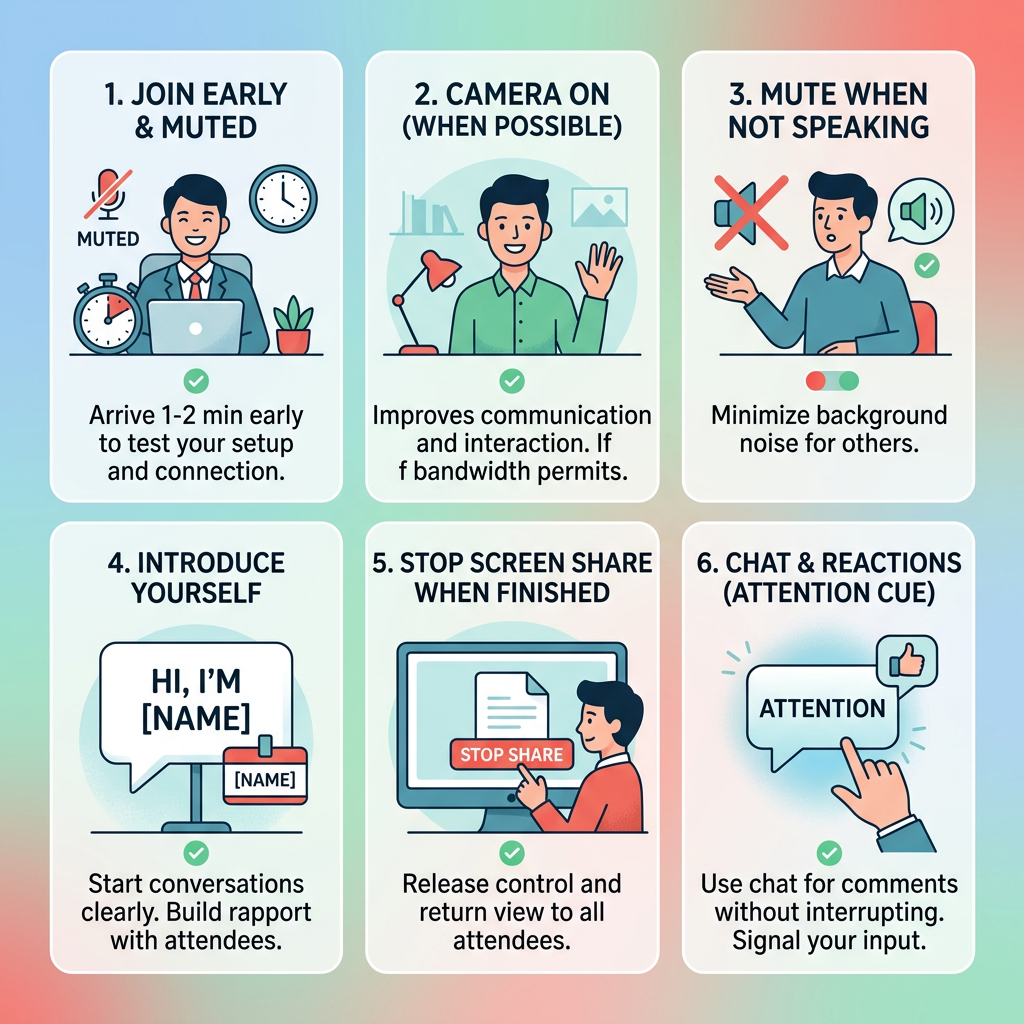
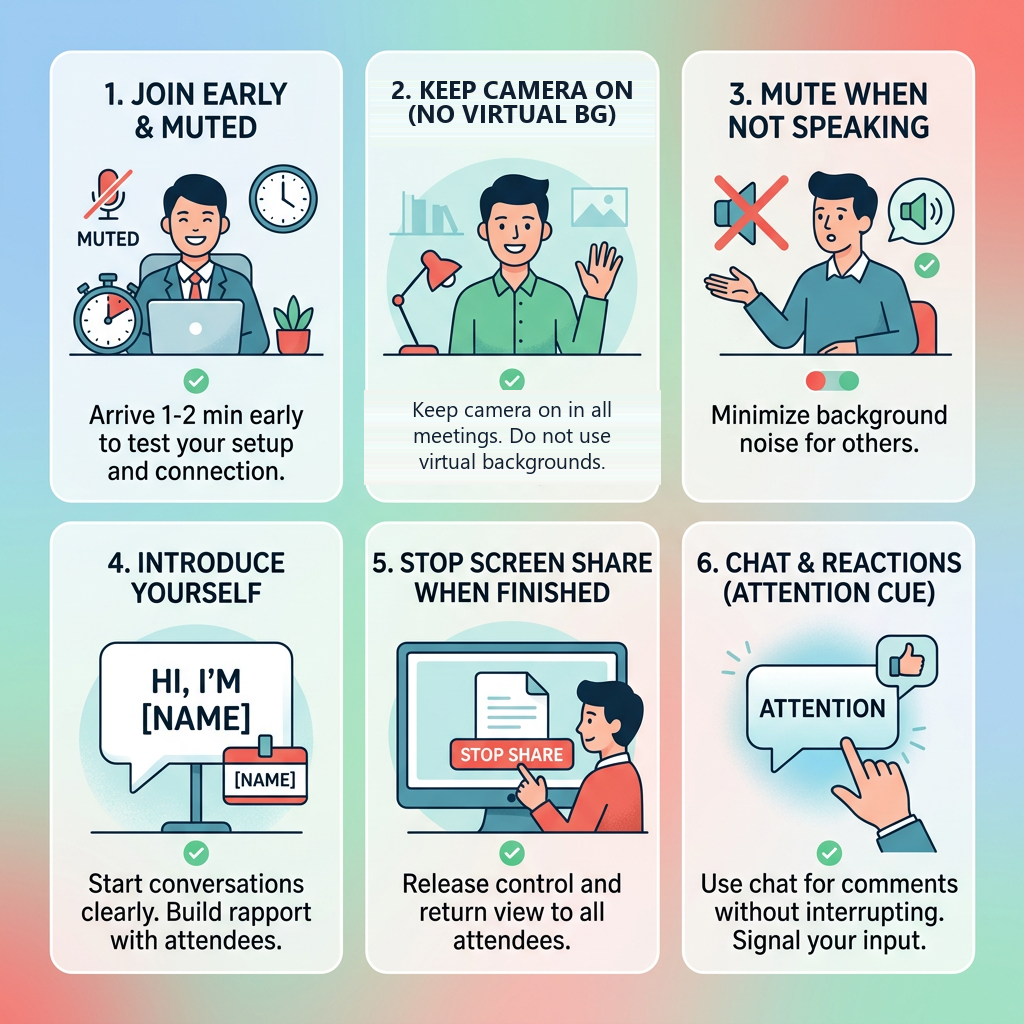
Updated WebEx Slides

Changed region(s): [[0.3438, 0.375, 0.625, 0.4688], [0.375, 0.0625, 0.625, 0.1562]]

diff --git a/courses/18-webex-tips-and-tricks/course.md b/courses/18-webex-tips-and-tricks/course.md
@@ -54,6 +54,11 @@
 
 - No prior Webex experience required
 
+<!-- below-columns -->
+
+> [!NOTE]
+> HCA Healthcare maintains multiple Webex sites. Employees must request Webex Meetings and Messaging access through HCA’s Access Central tool to receive the appropriate site access and permissions.
+
 ![Prerequisites](images/prerequisites.png)
 ---
 <!-- layout: navigation -->
@@ -77,7 +82,7 @@
 ---
 # Scheduling Smarter
 
-- Schedule directly from Webex, Outlook, or Google Calendar: pick whichever fits your workflow
+- Schedule directly from Webex or Outlook: pick whichever fits your workflow
 - Use meeting templates to standardize recurring formats (standups, 1:1s, all-hands)
 - Set a default meeting duration shorter than 60 or 30 minutes: most meetings expand to fill the time given
 - Enable the lobby/waiting room for anything with external guests
@@ -89,7 +94,7 @@
 
 - One-click join from your calendar invite: avoid hunting for meeting numbers
 - Test audio and video before an important meeting, not during it
-- Join from the desktop or mobile app for full features; the web app is a solid fallback
+- Join meetings directly from the Webex desktop or mobile app for the full experience; use the browser as a fallback when needed.
 - Preview your camera and background before joining, not after
 
 
@@ -103,20 +108,24 @@
 # In-Meeting Controls Worth Knowing
 
 - Reactions and raise hand keep large meetings orderly without interrupting the speaker
-- Virtual backgrounds and background noise removal reduce distractions for everyone
+- Employees are expected to keep their cameras on during all Webex meetings and should not use virtual backgrounds
+- Use background noise removal to minimize audio distractions
 - Screen share with “share sound” when presenting video or audio content
 - Lock the meeting once everyone expected to attend has joined, for sensitive discussions
+- If you experience recurring Webex issues, report the problem and create a Service Desk ticket with details of the issue
 ---
 <!-- layout: 2-column -->
 # Recordings and Transcripts
 
 ### Recordings
-- Cloud recordings are shareable and searchable
-- Set recording to start automatically for recurring meetings that need one
+- Set recording to start automatically for scheduled and recurring meetings that need one
+- Automatic sharing of Webex recordings and transcripts is not enabled
+- Meeting hosts must review all recordings and read all transcripts for accuracy before distributing them
 
-### Transcripts
-- Auto-generated transcripts save note-taking time
+### AI-generated Transcripts
+- Save note-taking time
 - Searchable after the meeting: jump straight to the part you need
+- May contain mistakes and must be checked carefully
 ---
 # Breakout Sessions
 
@@ -196,7 +205,7 @@
 # Meeting Etiquette Basics
 
 - Join a minute early, muted by default
-- Use video when you can—it builds engagement
+- Employees are expected to keep their cameras on during Webex meetings and should not use virtual backgrounds
 - Mute when not speaking, especially in larger groups
 - Say who you are before speaking in large or new groups
 - Stop sharing your screen when you’re done, not mid-transition
@@ -233,7 +242,9 @@
 - No video? Confirm Webex has camera permission at the OS level, not just in-app
 - Choppy video or audio? Switch to “optimize for low bandwidth” or turn off your own video
 - Can’t join at all? Try the web app as a fallback if the desktop app won’t connect
-- Persistent issues? Restart the app before restarting the whole machine
+- Too many open applications or browser tabs can consume CPU and system resources, affecting Webex meeting performance
+- Before and during meetings, close applications and browser tabs that are not needed
+- Persistent issues? Create a Service Desk ticket.
 
 ![Diagnosing video and connection issues](images/ch18-fixing-video.png)
 ---

diff --git a/courses/11-real-time-data-streaming-with-kafka/course.md b/courses/11-real-time-data-streaming-with-kafka/course.md
@@ -75,7 +75,7 @@
 - Confluent Cloud is the managed Kafka platform those teams share
 
 > [!NOTE]
-> “Near real time” means a consumer can act in seconds, while the situation is still true. It is not a video latency target and it is not high-frequency trading.
+> “Near real time” means a consumer can act in seconds, while the situation is still true. It is not a video or network latency target which are often measured in fractions of a second or milliseconds.
 ---
 <!-- layout: 2-column -->
 # Apache Kafka and Confluent Cloud
@@ -144,7 +144,7 @@
 - A patient discharges (`BedDirty`) or a monitor crosses a threshold
 - The fact is stale within minutes
 - A producer or gateway publishes the event
-- EVS (housekeeping), bed command, or clinical staff get paged immediately
+- Environmental Services (EVS), bed command, or clinical staff get paged immediately
 
 ### Explain it next week
 - Leadership wants last week’s bed occupancy volumes
@@ -532,7 +532,7 @@ consumer.commit(msg)
 ---
 # Quiz 2 of 3
 
-**Bed management, EVS (housekeeping), and nutrition all must react to every patient transfer. How should they read the topic?**
+**Bed management, Environmental Services (EVS), and nutrition all must react to every patient transfer. How should they read the topic?**
 
 - A. Share one consumer group so Kafka splits events between the three applications
 - B. Use separate consumer groups so each application gets the full stream and its own offsets
@@ -541,7 +541,7 @@ consumer.commit(msg)
 ---
 # Quiz 2: Answer
 
-**Bed management, EVS (housekeeping), and nutrition all must react to every patient transfer. How should they read the topic?**
+**Bed management, Environmental Services (EVS), and nutrition all must react to every patient transfer. How should they read the topic?**
 
 **Correct: B.** Use separate consumer groups so each application gets the full stream and its own offsets
 
